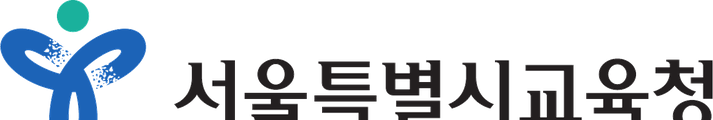
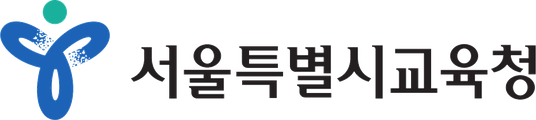
서울시교육청 CI 하단 잘림 수정(심볼 전체 포함)

diff --git a/index.html b/index.html
@@ -156,7 +156,7 @@
       <div class="spon-box">
         <div class="spon-row">
           <img src="sponsors/white/s1-dapa.png?v=2" alt="방위사업청">
-          <img src="sponsors/white/s2-sen.png?v=2" alt="서울특별시교육청">
+          <img src="sponsors/white/s2-sen.png?v=3" alt="서울특별시교육청">
           <img class="sq" src="sponsors/white/s3-nowon.png?v=2" alt="노원구청">
           <img src="sponsors/white/s4-sto.png?v=2" alt="서울관광재단">
         </div>
